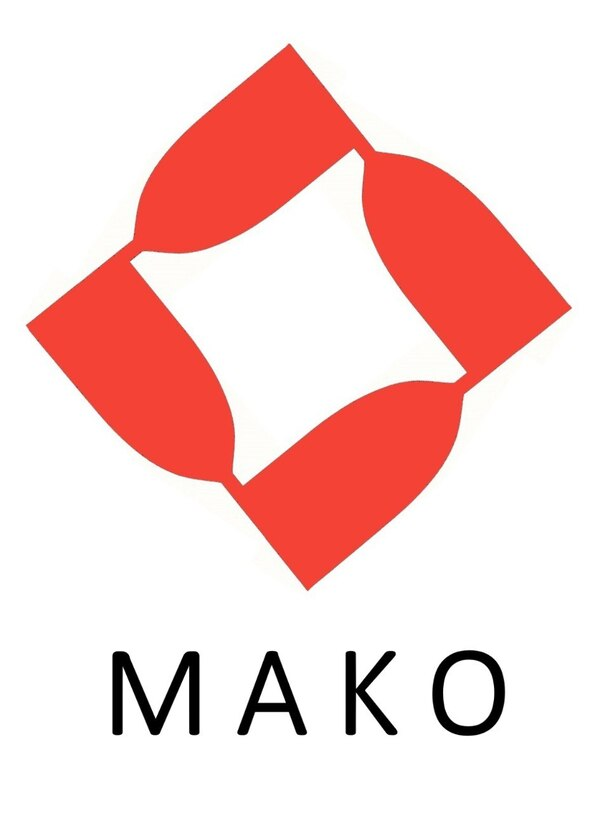
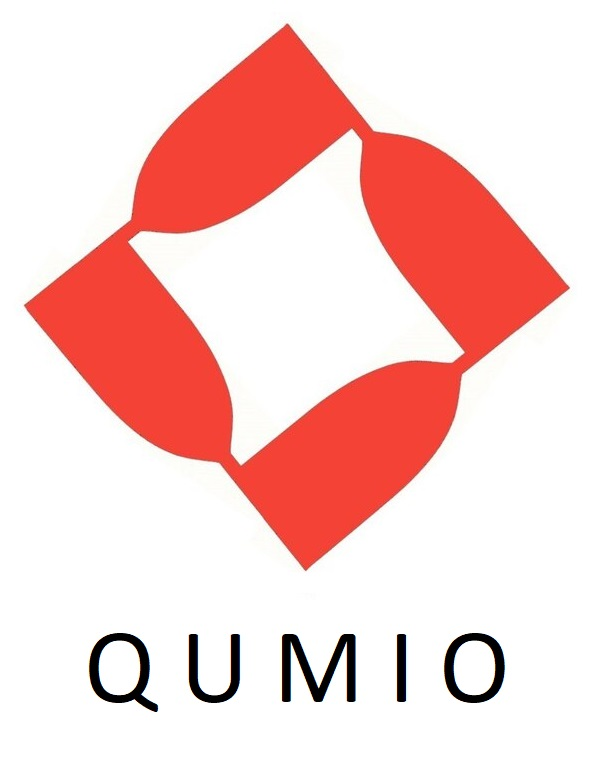
Cambio imágenes Qumio

diff --git a/content/english/_index.md b/content/english/_index.md
@@ -4,20 +4,20 @@ banner:
   enable: true
   bg_image: "images/verdu.jpg"
   bg_overlay: true
-  title: "Reach the next level <br/> in sport performance"
-  content: "In Mako, we work for incorporating novel techniques in data science and signal processing to high-level sport training"
+  title: "Cutting-edge solutions <br/>in data processing <br/>and data science"
+  content: "At Qumio, we work to offer innovative solutions in the fields of signal processing and data science to our customers"
   button:
     enable: true
-    label: "Discover Our Project"
-    link: "project/"
+    label: "Meet us"
+    link: "about/"
 
 ############################# About #################################
 about:
   enable: true
-  title: "About Mako"
-  description: "Born in the world of sprint canoeing, Mako was created with a clear goal in mind: offering trainers and athletes the data they need for optimising their performance"
-  content: "It is impossible to fully characterise a training or a competition just by observing it: certain details such as subtle movements, heart rate or slow speed drifts will go unseen by the naked eye of a trainer. <br> In Mako, we develop software solutions that can process the raw data acquire by different sensors to offer trainers and staff the precise data they require for analysing the
-    performance of an athlete."
+  title: "About Qumio"
+  description: "Born in the world of biometric and biomechanical signal processing, Qumio was created with a clear goal: to make advanced information processing techniques available to anyone, in order to get the most out of the available data."
+  content: "We live in an era where we are able to parameterize any phenomenon by means of data: there is an infinity of different sensors to collect information with previously unimaginable resolutions. However, working with these huge amounts of data is a complex task. 
+  <br>At Qumio, we develop signal processing, data treatment and data science solutions to obtain key information from raw data that is difficult to interpret by an individual, which will help optimize the analyzed activity."
   image: "images/palada.png"
 
 
@@ -25,18 +25,18 @@ about:
 portfolio:
   enable: true
   bg_image: "images/feature-bg.jpg"
-  title: "DATA IS POWER"
-  content: "Sensors give us the possibility of \"seeing the invisible\": by properly processing specific data and analysing trends, it's possible to gather information about an athlete's performance that otherwise would go completely unseen.
+  title: "KNOWLEDGE IS POWER"
+  content: "Sensors offer us the ability to \"see the invisible\": through appropriate data processing and trend analysis, it is possible to acquire valuable information that would otherwise go completely unnoticed.
 
 
-  In Mako, we believe that trainers should not be the ones to try to interpret raw data from sensors. It is because of this that we offer them state-of-the-art solutions that help them get both the cualitative and cuantitative results they require for analysing a recording.
+  At Qumio, we are aware of the problem that can arise from the interpretation of the raw data acquired and its transformation into quantifiable parameters that can be applied on a day-to-day basis. That is why we offer cutting-edge solutions that help our clients to obtain the qualitative and quantitative results required to analyze the desired activity.
 
 
-  We believe in the one-to-one relationship with a team's technical staff in order to fully adapt the data acquisition and processing stages to the specific needs of their sport or athletes.
+  We believe in maintaining a close and trusting relationship with our customers in order to fully tailor data processing and acquisition to their specific needs.
   "
   button:
     enable: true
-    label: "View Works"
+    label: "Ver productos"
     link: "project/"
 
 
@@ -50,57 +50,57 @@ service:
 cta:
   enable: true
   bg_image: "images/call-to-action-bg.jpg"
-  title: "By athletes, for athletes"
-  content: "It does not matter whether you are an individuals, a team or a federations: in Mako, we can offer software solutions to all types of training groups.<br>If you are interested in our services or have any doubt about them, don't hesitate to get in touch with us!"
+  title: "Optimize your performance"
+  content: "At Qumio, we offer all kinds of solutions to bring the latest technology to different areas, from the implementation of sensor networks to data processing and quantitative reporting<br><br>If you are interested in our services or have any questions about them, do not hesitate to contact us!"
   button:
     enable: true
-    label: "Get in touch with us"
+    label: "Contact us"
     link: "contact/"
 
 ############################# Funfacts ###############################
 funfacts:
   enable: true
-  title: "Fun Facts About Us"
-  description: "There's a lot of work behind Mako, and we are still growing!"
+  title: "Fun facts about us"
+  description: "There's a lot of work behind Qumio, and we're still growing!"
   funfact_item:
   # funfacts item loop
   - icon: "fas fa-mug-hot" #https://fontawesome.com/v5.15/icons
-    name: "Cups Of Coffee"
-    count: "99"
+    name: "Cafés"
+    count: "384"
 
   # funfacts item loop
   - icon: "fas fa-glasses" #https://fontawesome.com/v5.15/icons
-    name: "Article Written"
-    count: "0"
-
-  # funfacts item loop
-  - icon: "fas fa-keyboard" #https://fontawesome.com/v5.15/icons
-    name: "Projects Completed"
+    name: "Won awards"
     count: "1"
 
   # funfacts item loop
+  - icon: "fas fa-keyboard" #https://fontawesome.com/v5.15/icons
+    name: "Active projects"
+    count: "2"
+
+  # funfacts item loop
   - icon : "fas fa-fire-alt" #https://fontawesome.com/v5.15/icons
-    name : "Lines Of Code"
-    count : "3500"
+    name : "Lines of code"
+    count : "25000"
 
-  testimonial_slider:
-  # testimonial item loop
-  - name: "Joselito"
-    image: "images/clients/avater-1.jpg"
-    designation: "Deportista profesional"
-    content: "Aquí vendría una frase"
+  #testimonial_slider:
+  ## testimonial item loop
+  #- name: "Joselito"
+  #  image: "images/clients/avater-1.jpg"
+  #  designation: "Deportista profesional"
+  #  content: "Aquí vendría una frase"
 
-  # testimonial item loop
-  - name: "Menganito"
-    image: "images/clients/avater-2.jpg"
-    designation: "Ingeniero de Telecomunicaciones"
-    content: "Aquí vendría una frase"
+  ## testimonial item loop
+  #- name: "Menganito"
+  #  image: "images/clients/avater-2.jpg"
+  #  designation: "Ingeniero de Telecomunicaciones"
+  #  content: "Aquí vendría una frase"
 
-  # testimonial item loop
-  - name: "Fulanita"
-    image: "images/clients/avater-3.jpg"
-    designation: "Deportista profesional"
-    content: "Aquí vendría una frase"
+  ## testimonial item loop
+  #- name: "Fulanita"
+  #  image: "images/clients/avater-3.jpg"
+  #  designation: "Deportista profesional"
+  #  content: "Aquí vendría una frase"
 
 
 ---
